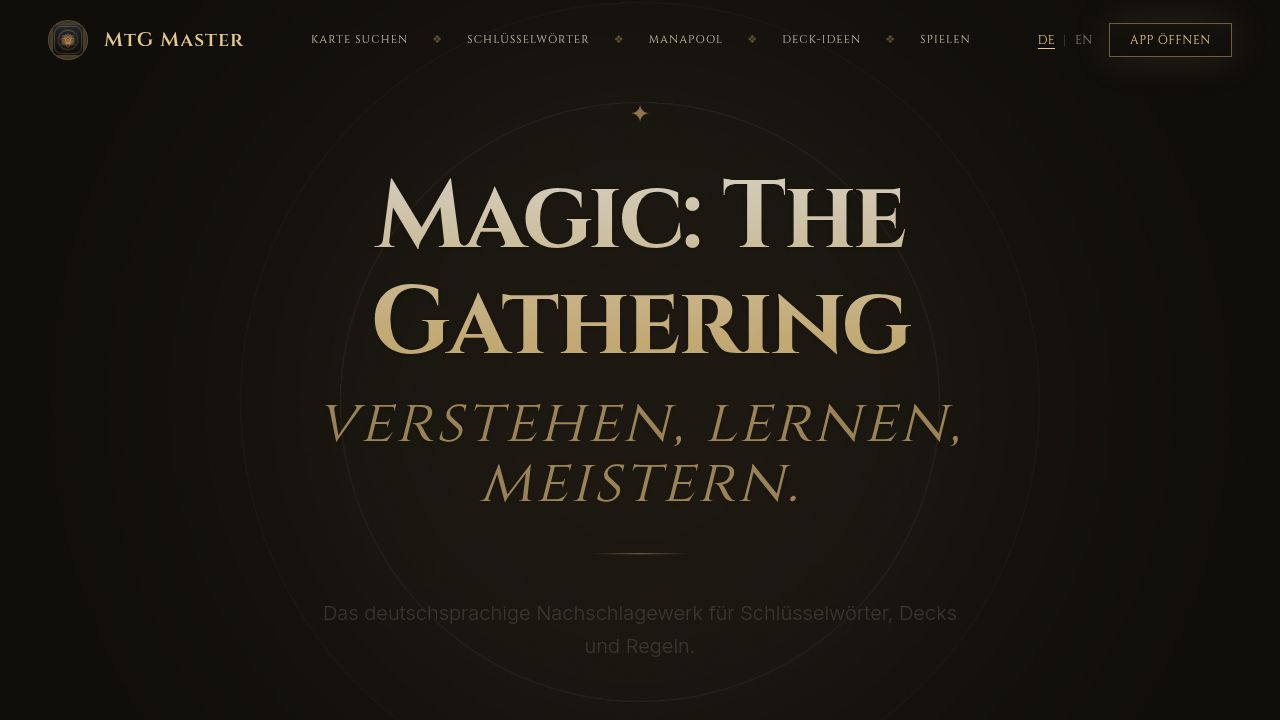
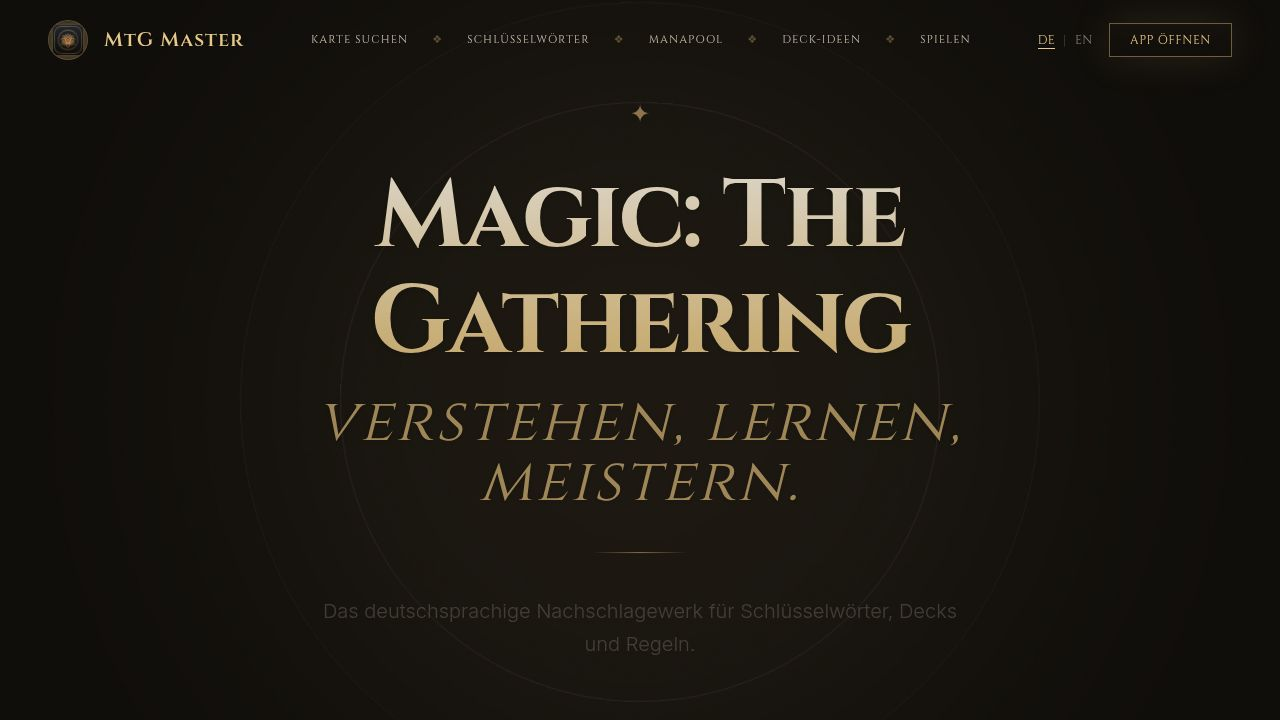
Update component generation and add marketing images
Update mock component generation to include new website variants and add new marketing images.

Replit-Commit-Author: Agent
Replit-Commit-Session-Id: 6f3b5fa4-3508-42a8-85e0-dda3f0e37abf
Replit-Commit-Checkpoint-Type: full_checkpoint
Replit-Commit-Event-Id: 7fe1e938-3161-4a17-978e-5234cce8e23d
Replit-Commit-Screenshot-Url: https://storage.googleapis.com/screenshot-production-us-central1/57d2c256-8628-427d-8d8a-603da6b0641d/6f3b5fa4-3508-42a8-85e0-dda3f0e37abf/oeGKR0Z
Replit-Helium-Checkpoint-Created: true

diff --git a/artifacts/mockup-sandbox/src/.generated/mockup-components.ts b/artifacts/mockup-sandbox/src/.generated/mockup-components.ts
@@ -2,13 +2,13 @@
 type ModuleMap = Record<string, () => Promise<Record<string, unknown>>>;
 export const modules: ModuleMap = {
   "./components/mockups/CardAnimation.tsx": () => import("../components/mockups/CardAnimation.tsx"),
-  "./components/mockups/mtg-website-variants/Cinematic.tsx": () => import("../components/mockups/mtg-website-variants/Cinematic.tsx"),
-  "./components/mockups/mtg-website-variants/Editorial.tsx": () => import("../components/mockups/mtg-website-variants/Editorial.tsx"),
-  "./components/mockups/mtg-website-variants/Grimoire.tsx": () => import("../components/mockups/mtg-website-variants/Grimoire.tsx"),
   "./components/mockups/mtg-design-variants/ArcaneBlueprint.tsx": () => import("../components/mockups/mtg-design-variants/ArcaneBlueprint.tsx"),
   "./components/mockups/mtg-design-variants/Arena.tsx": () => import("../components/mockups/mtg-design-variants/Arena.tsx"),
   "./components/mockups/mtg-design-variants/Codex.tsx": () => import("../components/mockups/mtg-design-variants/Codex.tsx"),
   "./components/mockups/mtg-design-variants/Grimoire.tsx": () => import("../components/mockups/mtg-design-variants/Grimoire.tsx"),
   "./components/mockups/mtg-design-variants/MysticForest.tsx": () => import("../components/mockups/mtg-design-variants/MysticForest.tsx"),
-  "./components/mockups/mtg-design-variants/NeonMana.tsx": () => import("../components/mockups/mtg-design-variants/NeonMana.tsx")
+  "./components/mockups/mtg-design-variants/NeonMana.tsx": () => import("../components/mockups/mtg-design-variants/NeonMana.tsx"),
+  "./components/mockups/mtg-website-variants/Cinematic.tsx": () => import("../components/mockups/mtg-website-variants/Cinematic.tsx"),
+  "./components/mockups/mtg-website-variants/Editorial.tsx": () => import("../components/mockups/mtg-website-variants/Editorial.tsx"),
+  "./components/mockups/mtg-website-variants/Grimoire.tsx": () => import("../components/mockups/mtg-website-variants/Grimoire.tsx")
 };